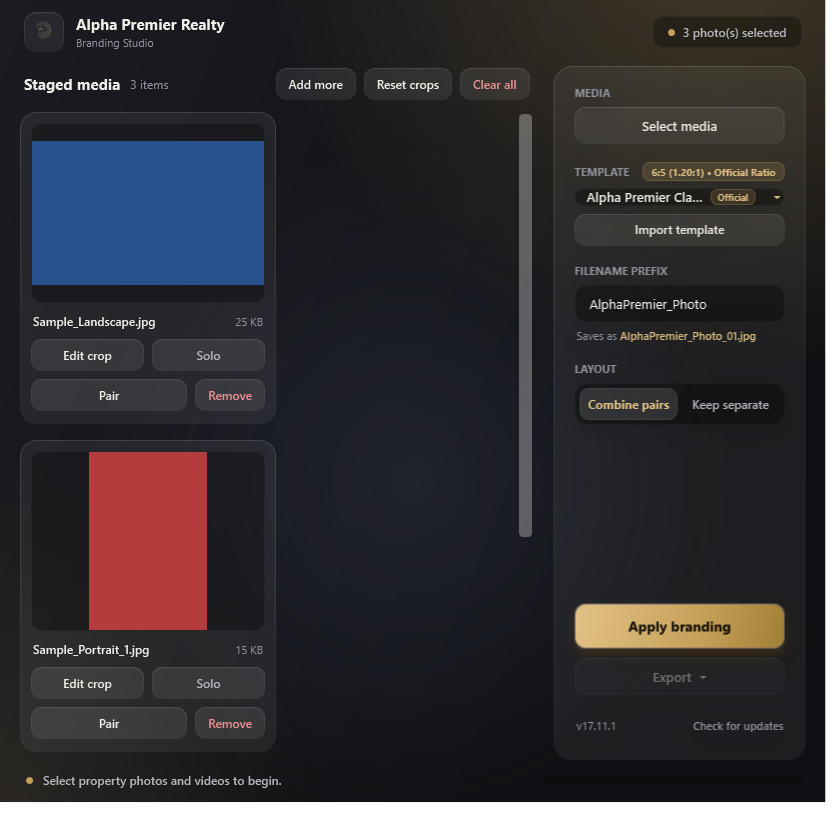
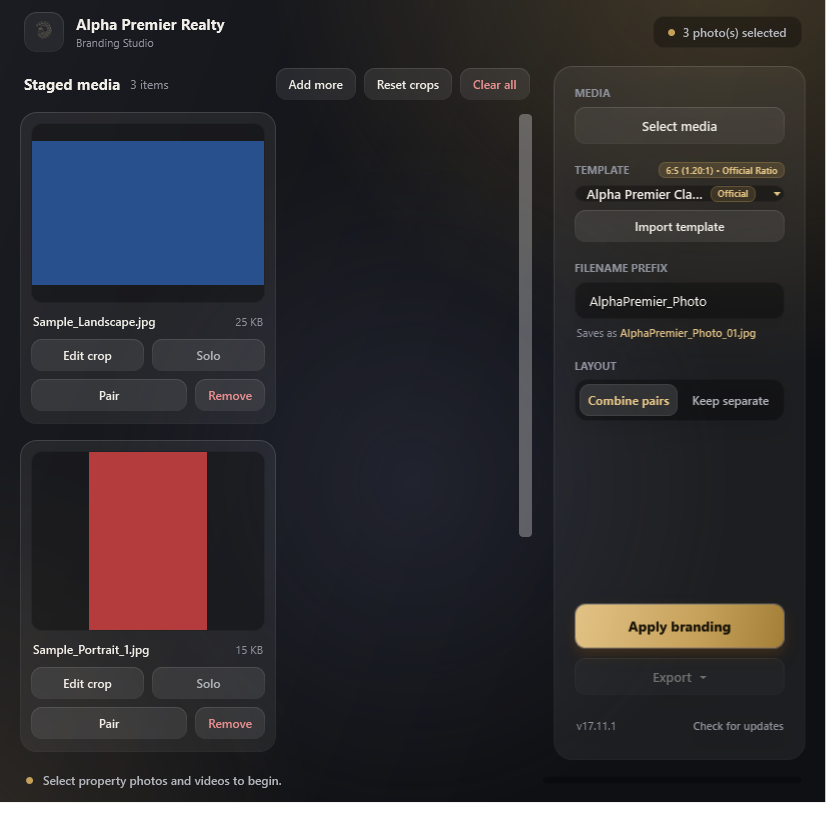
style(ui): smaller aspect-ratio chip beside the Template label

Changed region(s): [[0.681, 0.1857, 0.9286, 0.2786], [0.681, 0.3095, 0.8976, 0.4024], [0.681, 0.4333, 0.9286, 0.5262]]

diff --git a/src/Alpha.Branding/MainWindow.xaml b/src/Alpha.Branding/MainWindow.xaml
@@ -115,10 +115,11 @@
                                 <ColumnDefinition Width="Auto"/>
                             </Grid.ColumnDefinitions>
                             <TextBlock Grid.Column="0" Text="TEMPLATE" Style="{StaticResource SectionLabel}" Margin="0" VerticalAlignment="Center"/>
-                            <Border Grid.Column="1" Style="{StaticResource Chip}">
+                            <Border Grid.Column="1" Style="{StaticResource Chip}" Padding="6,1">
                                 <TextBlock Text="{Binding ActiveTemplateAspectRatio}"
                                            AutomationProperties.AutomationId="ActiveTemplateAspectRatioTextBlock"
-                                           Style="{StaticResource ChipText}"/>
+                                           Style="{StaticResource ChipText}"
+                                           FontSize="9"/>
                             </Border>
                         </Grid>
                         <ComboBox ItemsSource="{Binding AvailableTemplates}"
